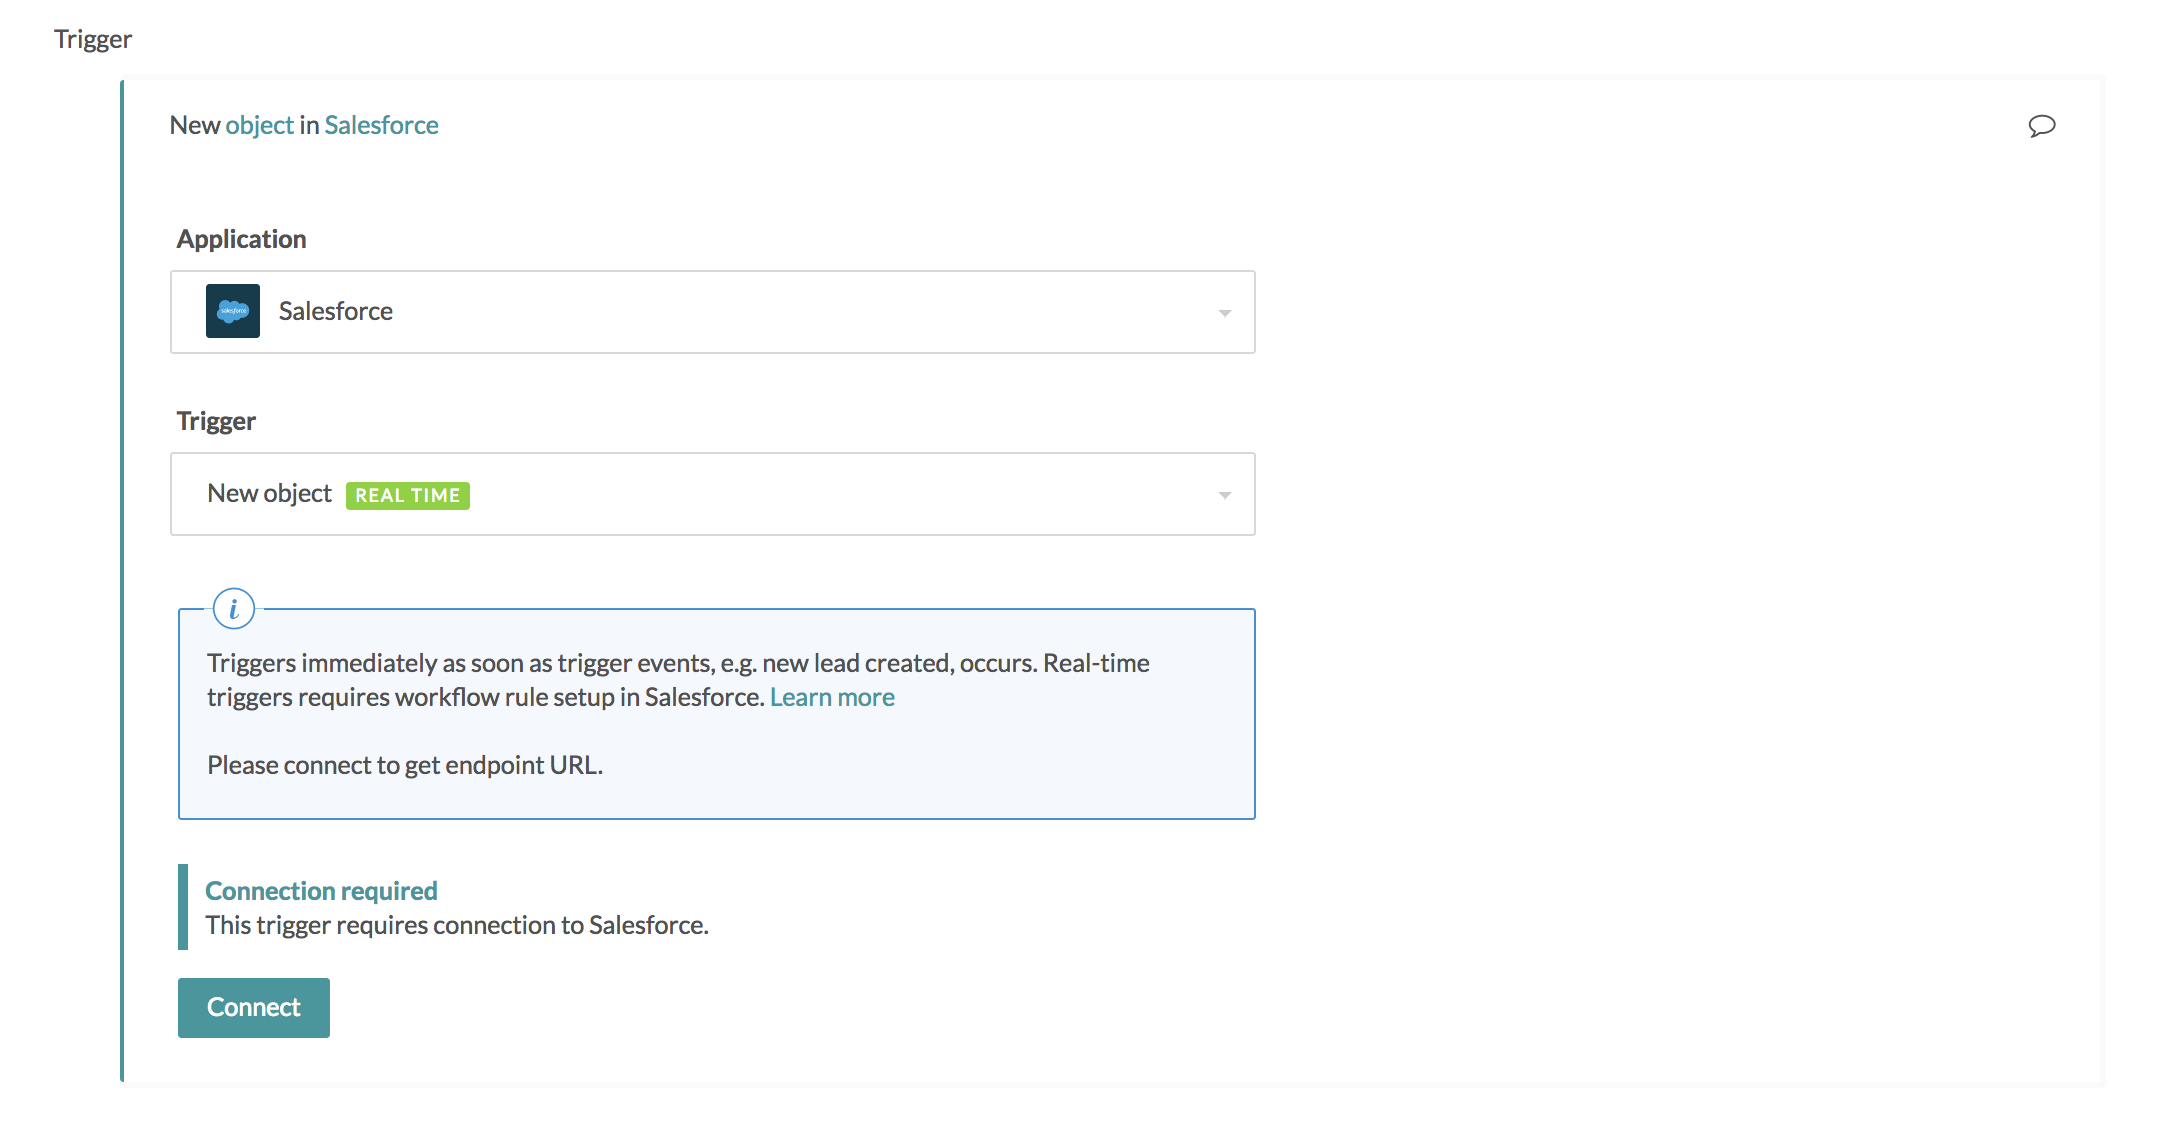
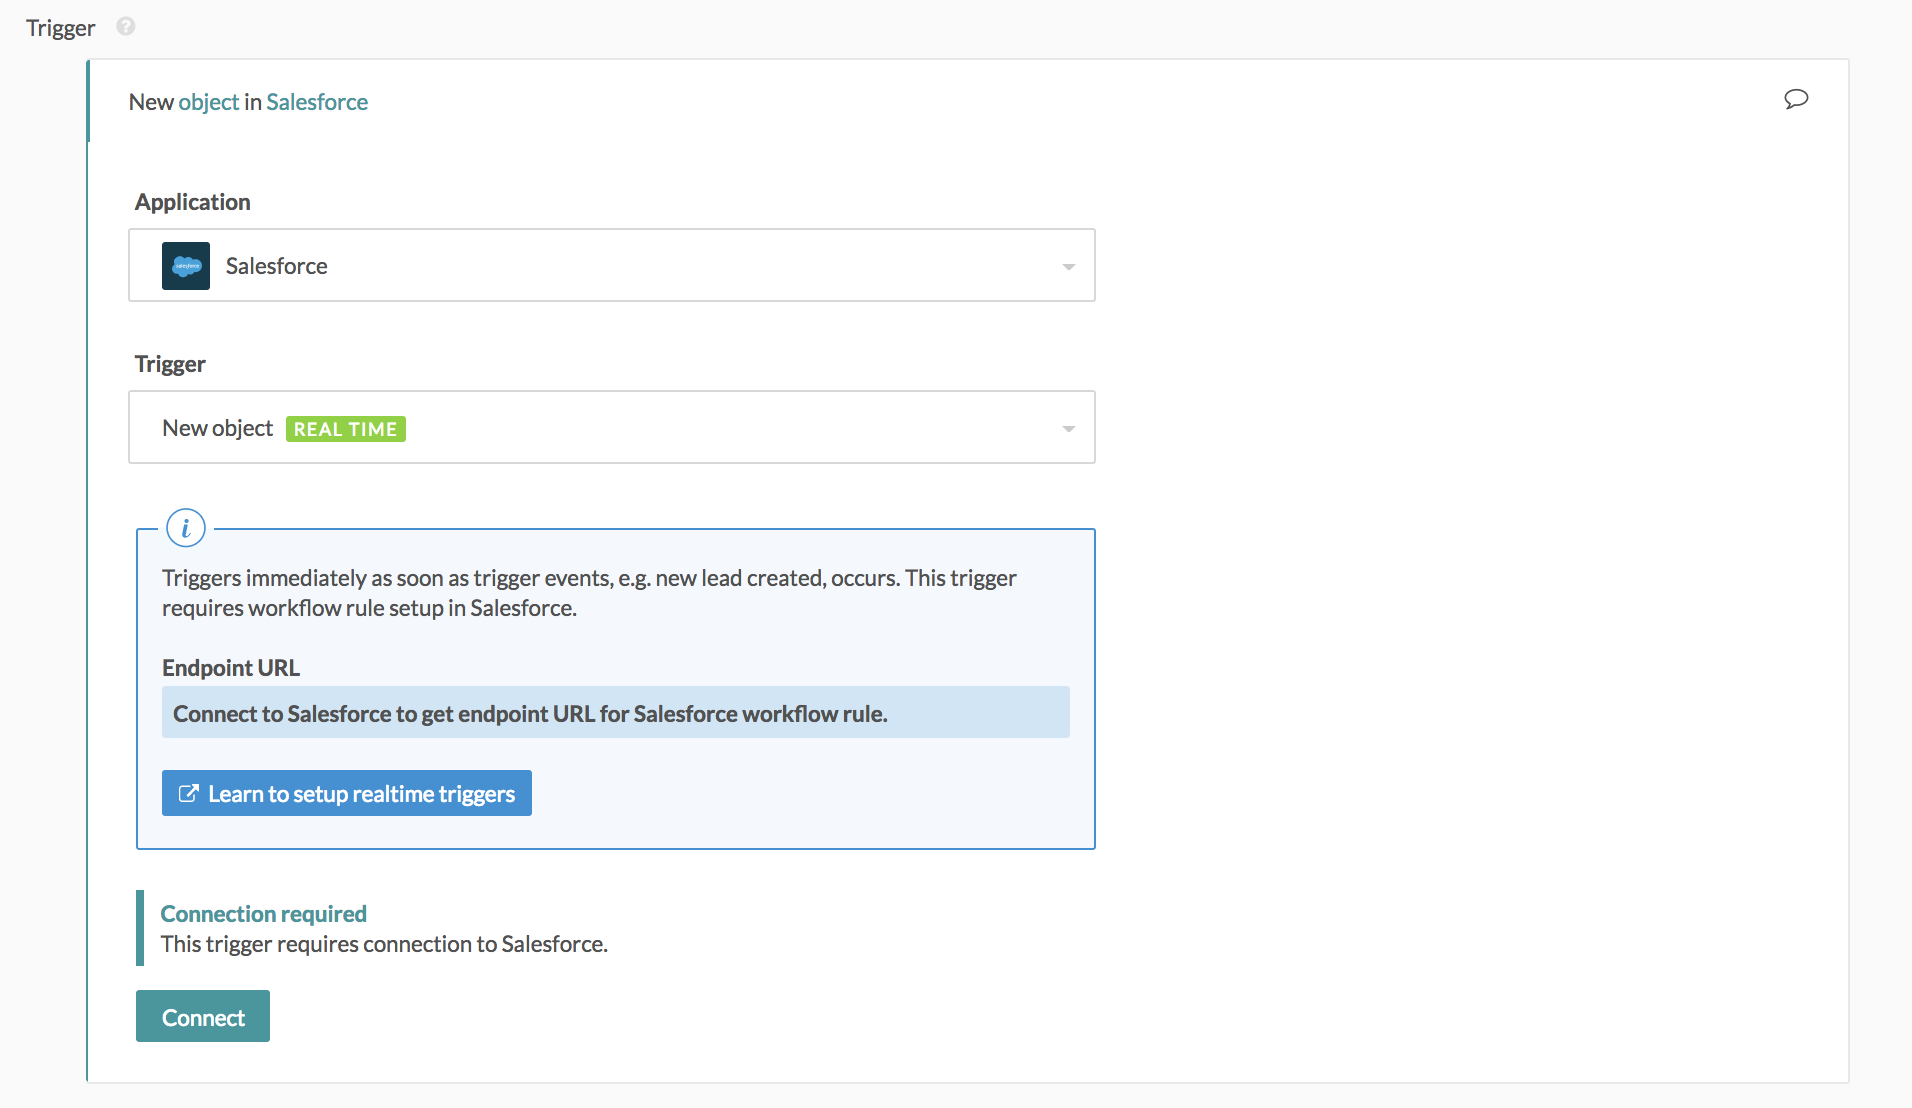
edited realtime triggers docs

Changed region(s): [[0.0, 0.0, 0.5863, 0.9513], [0.9257, 0.0921, 0.9566, 0.1227], [0.5554, 0.7058, 0.5863, 0.7365]]

diff --git a/connectors/salesforce.md b/connectors/salesforce.md
@@ -98,24 +98,24 @@ In the following sections, we provide a detailed walkthrough to setup the real-t
 - [New/updated object trigger](#real-time-trigger-setup-new-and-updated-object)
 
 #### Real-time trigger setup - new object
-We go through the setup for the **New Object** real-time trigger below. We will be setting up a real-time trigger for new contacts in Salesforce.
+We go through the setup for the **New object** real-time trigger below. We will be setting up a real-time trigger for new contacts in Salesforce.
 
 1) Select the trigger in Workato. You will be prompted to connect to your Salesforce account.
 
-![Select new object real-time trigger in Salesforce](/assets/images/salesforce-docs/select-salesforce-new-object-realtime-trigger.png)
+![Select new object real-time trigger in Salesforce](/assets/images/salesforce-docs/select-object-for-new-trigger.png)
 *Select new object real-time trigger in Salesforce*
 
 2) Connect to Salesforce.
 
-3) Select the specific object you wish to monitor in Salesforce. In this case, we select Contact.
+3) Select the specific object you wish to monitor in Salesforce. In this case, we'll select Contact.
 
 ![Select specific object to monitor in Salesforce](/assets/images/salesforce-docs/select-object-for-new-trigger.png)
 *Select specific object to monitor in Salesforce*
 
 The trigger will provide you with an endpoint URL to setup a Salesforce workflow rule with. This URL will tell Salesforce to send real-time events about newly created contacts to this Workato recipe. Copy this URL to the clipboard for use in creating the Salesforce workflow rule.
 
-![Workato generates endpoint URL for Salesforce workflow](/assets/images/salesforce-docs/workato-generates-workflow-url.gif)
-*Workato generates endpoint URL for Salesforce workflow*
+![Workato generates endpoint URL for Salesforce workflow rule](/assets/images/salesforce-docs/workato-generates-workflow-url.gif)
+*Workato generates endpoint URL for Salesforce workflow rule*
 
 This endpoint URL is unique to the Salesforce organization connected to the trigger, the Salesforce object you've selected, and the Workato recipe. You will need to regenerate this endpoint URL again if you decide to change Salesforce connection, the Salesforce object monitored, or the Workato recipe.
 
@@ -124,7 +124,7 @@ This endpoint URL is unique to the Salesforce organization connected to the trig
 ![In your Salesforce organization, go to Setup>Create>Workflow & Approvals>Workflow rules and click on New rule](/assets/images/salesforce-docs/navigate-to-create-new-rule.gif)
 *In your Salesforce organization, go to Setup>Create>Workflow & Approvals>Workflow rules and click on New rule*
 
-5) In step 1 of the setup wizard, select the same Salesforce object you have selected in the recipe as the object to monitor.
+5) In step 1 of the setup wizard, select the same Salesforce object you have selected in the recipe.
 
 ![Select specific object to monitor in Salesforce](/assets/images/salesforce-docs/select-workflow-rule-object.png)
 *Select specific object to monitor in Salesforce*
@@ -149,15 +149,17 @@ This endpoint URL is unique to the Salesforce organization connected to the trig
 ![Activate workflow rule to start monitoring new contacts created in Salesforce](/assets/images/salesforce-docs/activating-workflow-rule-new-object-trigger.gif)
 *Activate workflow rule to start monitoring new contacts created in Salesforce*
 
-10) Return to Workato and start the recipe. It will now monitor newly created contacts in Salesforce and process them as trigger events immediately. If desired, add trigger conditions.
+10) Return to Workato and start the recipe. Create a new object record. In our case, we'll create a new contact. Ensure that the recipe picks up the trigger event immediately, to verify that the workflow rule is working.
+
+If the trigger event is indeed picked up immediately, this means that your workflow rule and Workato trigger has been set up properly. While the recipe is running, it should monitor newly created records in Salesforce and process them as trigger events immediately. If desired, add trigger conditions.
 
 #### Real-time trigger setup - new and updated object
-We go through the setup for the **New and updated Object** real-time trigger below. We will be setting up a real-time trigger for new and updated leads in Salesforce.
+We go through the setup for the **New and updated object** real-time trigger below. We will be setting up a real-time trigger for new and updated leads in Salesforce.
 
 1) Select the trigger in Workato. You will be prompted to connect to your Salesforce account.
 
 ![Select new or updated object real-time trigger in Salesforce](/assets/images/salesforce-docs/select-salesforce-new-updated-object-realtime-trigger.png)
-*Select new object real-time trigger in Salesforce*
+*Select new and updated object real-time trigger in Salesforce*
 
 2) Connect to Salesforce.
 
@@ -168,8 +170,8 @@ We go through the setup for the **New and updated Object** real-time trigger bel
 
 The trigger will provide you with an endpoint URL to setup a Salesforce workflow rule with. This URL will tell Salesforce to send real-time events about newly created or updated contacts to this Workato recipe. Copy this URL to the clipboard for use in creating the Salesforce workflow rule.
 
-![Workato generates endpoint URL for Salesforce workflow](/assets/images/salesforce-docs/workato-generates-new-updated-workflow-url.gif)
-*Workato generates endpoint URL for Salesforce workflow*
+![Workato generates endpoint URL for Salesforce workflow rule](/assets/images/salesforce-docs/workato-generates-new-updated-workflow-url.gif)
+*Workato generates endpoint URL for Salesforce workflow rule*
 
 This endpoint URL is unique to the Salesforce organization connected to the trigger, the Salesforce object you've selected, and the Workato recipe. You will need to regenerate this endpoint URL again if you decide to change Salesforce connection, the Salesforce object monitored, or the Workato recipe.
 
@@ -178,7 +180,7 @@ This endpoint URL is unique to the Salesforce organization connected to the trig
 ![In your Salesforce organization, go to Setup>Create>Workflow & Approvals>Workflow rules and click on New rule](/assets/images/salesforce-docs/navigate-to-create-new-rule.gif)
 *In your Salesforce organization, go to Setup>Create>Workflow & Approvals>Workflow rules and click on New rule*
 
-5) In step 1 of the setup wizard, select the same Salesforce object you have selected in the recipe as the object to monitor.
+5) In step 1 of the setup wizard, select the same Salesforce object you have selected in the recipe.
 
 ![Select specific object to monitor in Salesforce](/assets/images/salesforce-docs/select-workflow-rule-object-lead.png)
 *Select specific object to monitor in Salesforce*
@@ -188,7 +190,7 @@ This endpoint URL is unique to the Salesforce organization connected to the trig
 ![Setup the Salesforce workflow rule to be evaluated when record is created or updated](/assets/images/salesforce-docs/workflow-rule-setup-for-new-updated-object-trigger.png)
 *Setup the Salesforce workflow rule to be evaluated when record is created or updated*
 
-7) In step 3 of the setup wizard, add a workflow action "New outbound message". This ensures that Salesforce will always notify our Workato recipe whenever a record is created, via sending an outbound message to that recipe's endpoint URL.
+7) In step 3 of the setup wizard, add a workflow action "New outbound message". This ensures that Salesforce will always notify our Workato recipe whenever a record is created or updated, via sending an outbound message to that recipe's endpoint URL.
 
 ![Add outbound message as the workflow action. Newly created or updated contacts that meet the evaluation criteria will send an outbound message](/assets/images/salesforce-docs/add-outbound-message-for-new-updated-object-trigger.png)
 *Add outbound message as the workflow action. Newly created or updated contacts that meet the evaluation criteria will send an outbound message*
@@ -203,7 +205,9 @@ This endpoint URL is unique to the Salesforce organization connected to the trig
 ![Activate workflow rule to start monitoring new leads created in Salesforce](/assets/images/salesforce-docs/activating-workflow-rule-new-updated-object-trigger.gif)
 *Activate workflow rule to start monitoring new leads created in Salesforce*
 
-10) Return to Workato and start the recipe. It will now monitor newly created or updated leads in Salesforce and process them as trigger events immediately. If desired, add trigger conditions.
+10) Return to Workato and start the recipe. Create or update a new object record. In our case, we'll update an existing lead. Ensure that the recipe picks up the trigger event immediately, to verify that the workflow rule is working.
+
+If the trigger event is indeed picked up immediately, this means that your workflow rule and Workato trigger has been set up properly. While the recipe is running, it should monitor newly created or updated records in Salesforce and process them as trigger events immediately. If desired, add trigger conditions.
 
 ### Working with generic triggers in Salesforce
 In Workato, a Trigger refers to a condition that is set to start off a recipe. All the triggers on the Salesforce connector deals with **Objects**. The name of the trigger tells you exactly what event must occur for a recipe to take place. The term "object" is exactly the same as how it is used within Salesforce itself, and refers to things such as leads, opportunities, accounts, as well as custom objects you may have created for your organisation. Simply click on the Object field's dropdown list and you will be able to see all the objects associated with the instance of Salesforce you have connected to a recipe. For example, you use the trigger **"New Object"** and select **Lead** as the object. Your recipe will trigger every time a new lead is created.
